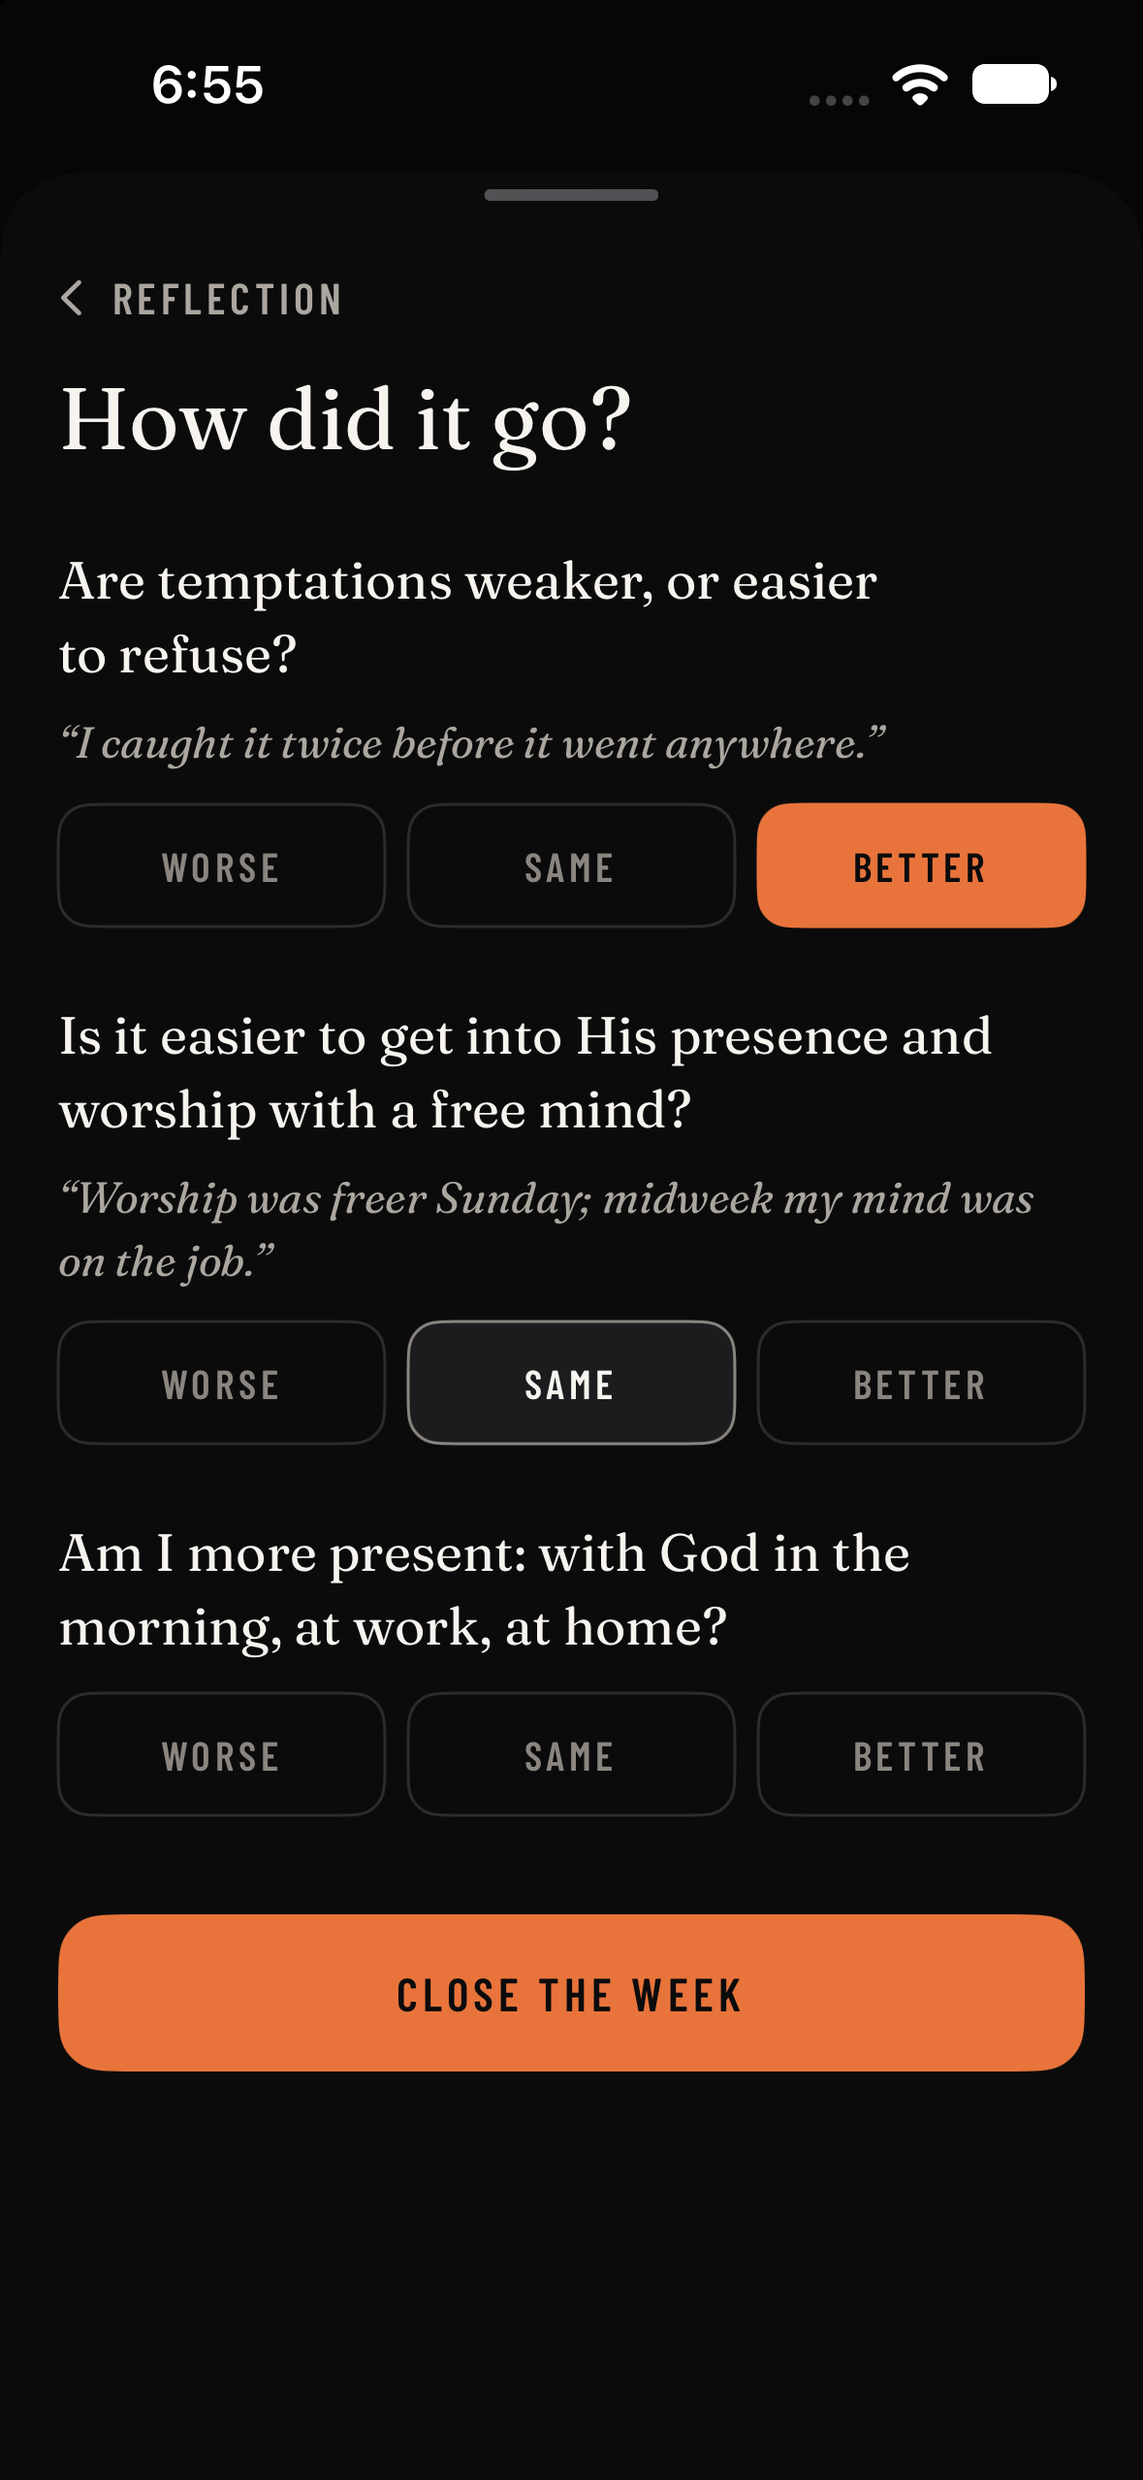
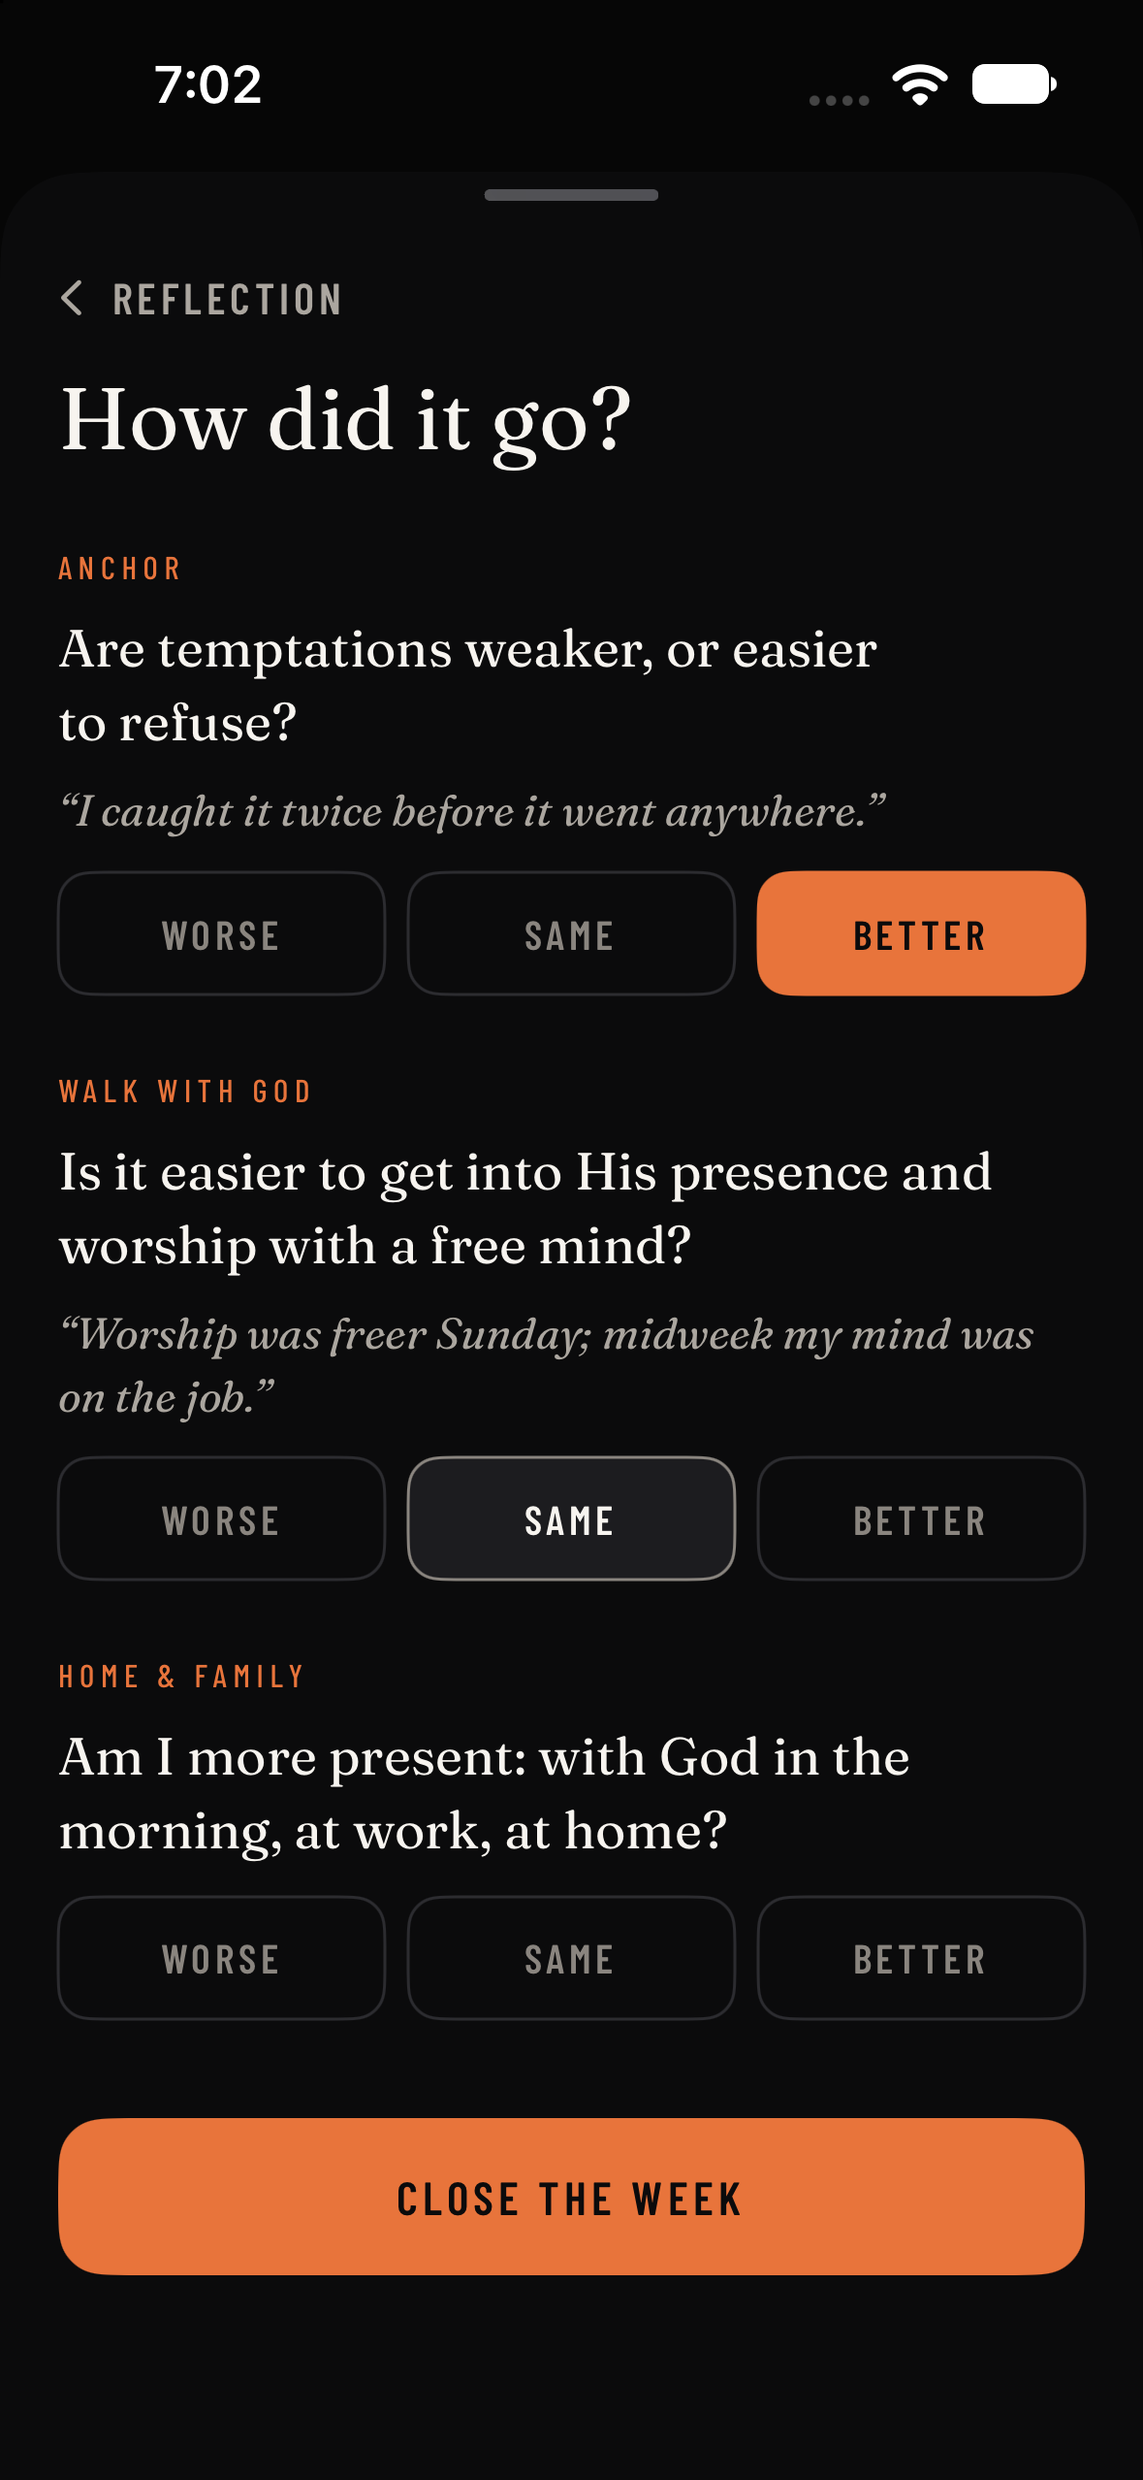
iOS: dictation screen shows small flowing text and elapsed time only; growth is tracked by sphere

Changed region(s): [[0.0305, 0.2164, 0.9771, 0.9272], [0.7328, 0.68, 0.855, 0.7418], [0.1221, 0.0309, 0.2443, 0.0618]]

diff --git a/ios/WeeklyDirection/Growth.swift b/ios/WeeklyDirection/Growth.swift
@@ -1,8 +1,10 @@
 import SwiftUI
 
 /// Growth read from the weekly reviews (Eddie, Nov 10 2026). At each review every Saturday question gets a rating he
-/// confirms: better (1), same (0), worse (-1), or none. Saved on the week as `growth: [{q, v}]`, a field only the
+/// confirms: better (1), same (0), worse (-1), or none. Saved on the week as `growth: [{q, v, s}]`, a field only the
 /// iOS app writes. Weeks closed before this existed have none and stay empty.
+/// The grid is by sphere (`s`: the question's group in the library, "Anchor" for the anchor question), not by exact
+/// question, because the questions change from week to week and the spheres do not.
 enum Growth {
     /// the last three rated weeks against the three before them: 1 improving, -1 slipping, 0 steady; nil until there are four
     static func trend(_ v: [Int]) -> Int? {
@@ -11,18 +13,33 @@ enum Growth {
         return late > early ? 1 : late < early ? -1 : 0
     }
 
-    struct Row: Identifiable { let q: String; let cells: [Int?]; let trend: Int?; var id: String { q } }
+    static let anchorSphere = "Anchor"
+    /// the sphere a question belongs to: "Anchor", its group in the question library, or "Other"
+    static func sphere(_ q: String, _ s: Settings) -> String {
+        if q == s.anchorQ { return anchorSphere }
+        return Logic.libGroups(s).first { $0.qs.contains(q) }?.title ?? "Other"
+    }
 
-    /// one row per question that has ever been rated; cells are the last `n` closed weeks, oldest first
-    static func rows(_ weeks: [Week], anchor: String, last n: Int = 8) -> (weeks: [Week], rows: [Row]) {
+    /// a sphere's rating for one week: the balance of its questions that week (two better and one worse is better)
+    static func value(_ w: Week, _ sphere: String) -> Int? {
+        let v = w.growth.filter { $0.s == sphere }.map(\.v)
+        guard !v.isEmpty else { return nil }
+        let sum = v.reduce(0, +)
+        return sum > 0 ? 1 : sum < 0 ? -1 : 0
+    }
+
+    struct Row: Identifiable { let sphere: String; let cells: [Int?]; let trend: Int?; var id: String { sphere } }
+
+    /// one row per sphere that has ever been rated (Anchor first, then the most recently rated); cells are the last
+    /// `n` closed weeks, oldest first
+    static func rows(_ weeks: [Week], last n: Int = 8) -> (weeks: [Week], rows: [Row]) {
         let closed = weeks.filter { !$0.isActive }.sorted { $0.sealedAtMs < $1.sealedAtMs }
         let shown = Array(closed.suffix(n))
         var latest: [String: Double] = [:]
-        for w in closed { for r in w.growth { latest[r.q] = w.sealedAtMs } }
-        let qs = latest.keys.sorted { a, b in a == anchor ? true : b == anchor ? false : (latest[a]!, a) > (latest[b]!, b) }
-        return (shown, qs.map { q in
-            Row(q: q, cells: shown.map { w in w.growth.first { $0.q == q }?.v },
-                trend: trend(closed.compactMap { w in w.growth.first { $0.q == q }?.v }))
+        for w in closed { for r in w.growth { latest[r.s] = w.sealedAtMs } }
+        let names = latest.keys.sorted { a, b in a == anchorSphere ? true : b == anchorSphere ? false : (latest[a]!, b) > (latest[b]!, a) }
+        return (shown, names.map { s in
+            Row(sphere: s, cells: shown.map { value($0, s) }, trend: trend(closed.compactMap { value($0, s) }))
         })
     }
 }
@@ -50,7 +67,7 @@ struct GrowthGrid: View {
     @EnvironmentObject var store: Store
 
     var body: some View {
-        let g = Growth.rows(store.weeks, anchor: store.settings.anchorQ)
+        let g = Growth.rows(store.weeks)
         // always eight columns, newest on the right: the squares keep their size while the first weeks fill in
         let pad = max(0, 8 - g.weeks.count)
         VStack(alignment: .leading, spacing: 0) {
@@ -58,9 +75,9 @@ struct GrowthGrid: View {
                 Text("Your first rated review will show here.").font(Theme.serifItalic(17)).foregroundStyle(Theme.mu2).padding(.top, 24)
             } else {
                 ForEach(Array(g.rows.enumerated()), id: \.element.id) { n, r in
-                    VStack(alignment: .leading, spacing: 10) {
+                    VStack(alignment: .leading, spacing: 8) {
                         HStack(alignment: .firstTextBaseline) {
-                            Text(r.q).font(Theme.serif(17)).foregroundStyle(Theme.tx).lineLimit(2).multilineTextAlignment(.leading)
+                            Text(r.sphere).caps(16).foregroundStyle(Theme.tx).lineLimit(1)
                             Spacer(minLength: 10)
                             if let t = r.trend {
                                 Text(t > 0 ? "improving" : t < 0 ? "slipping" : "steady").font(Theme.label(13)).tracking(1.4).textCase(.uppercase)
@@ -72,7 +89,7 @@ struct GrowthGrid: View {
                             ForEach(Array(r.cells.enumerated()), id: \.offset) { _, v in GrowthSquare(v: v).frame(maxWidth: .infinity).frame(height: 26) }
                         }
                     }
-                    .padding(.top, 26).rise(n)
+                    .padding(.top, 22).rise(n)
                 }
                 HStack(spacing: 6) {
                     ForEach(0..<pad, id: \.self) { _ in Color.clear.frame(maxWidth: .infinity).frame(height: 1) }

diff --git a/ios/WeeklyDirection/RecordingView.swift b/ios/WeeklyDirection/RecordingView.swift
@@ -1,7 +1,8 @@
 import SwiftUI
 
-/// The recording space (web: vcFocus): Cancel and the timer, the words as you say them, the voice level as a
-/// scrolling bar waveform, and the orb with a stop square. Tap the orb to finish.
+/// The recording space (web: vcFocus). Nov 10 2026 (Eddie: a stream of consciousness, so show a lot of it): the words
+/// in small journal type from the top of the page down, then the voice level, the elapsed time and the orb. Cancel is
+/// the only other thing on screen; tapping the orb finishes.
 struct RecordingView: View {
     @EnvironmentObject var recorder: Recorder
     @EnvironmentObject var router: Router
@@ -10,32 +11,35 @@ struct RecordingView: View {
     @State private var demo: Timer?
     @State private var demoWords = 0
 
-    private static let demoText = "This is a preview of live words. As you talk, what you say shows up here a few words at a time"
+    private static let demoText = "This is a preview of live words. As you talk, what you say shows up here a few words at a time, starting at the top of the page and working its way down. It was a long day on site and I did not get to devotion until after lunch, which I think is the real pattern this week. When the morning goes, the rest of the day runs me instead of the other way around. Tonight I want to be home by six and actually put the phone down at the door"
 
     var body: some View {
         VStack(spacing: 0) {
-            ZStack {
-                HStack {
-                    Button("Cancel") { recorder.cancel(); router.endRecording() }.caps(16).foregroundStyle(Theme.mu)
-                    Spacer()
-                }
-                Text(Fmt.mmss(floor(recorder.elapsed))).font(Theme.label(15)).tracking(1.5).monospacedDigit().foregroundStyle(Theme.mu)
+            HStack {
+                Button("Cancel") { recorder.cancel(); router.endRecording() }.caps(16).foregroundStyle(Theme.mu)
+                Spacer()
             }
             .frame(height: 52)
             ScrollViewReader { proxy in
                 ScrollView {
-                    Text(recorder.liveText).font(Theme.serif(24)).lineSpacing(9).foregroundStyle(Theme.tx)
-                        .fullWidth().padding(.top, 20).id("end")
+                    // top of the page down; once it fills the space the newest line stays in view
+                    Text(recorder.liveText).font(Theme.jserif(17)).lineSpacing(7).foregroundStyle(Theme.tx)
+                        .fullWidth().padding(.top, 8).padding(.bottom, 12)
+                    Color.clear.frame(height: 1).id("end")
                 }
-                .defaultScrollAnchor(.bottom)
-                .onChange(of: recorder.liveText) { _, _ in proxy.scrollTo("end", anchor: .bottom) }
+                .scrollIndicators(.hidden)
+                .onChange(of: recorder.liveText) { _, _ in withAnimation(.easeOut(duration: 0.2)) { proxy.scrollTo("end", anchor: .bottom) } }
+                .mask(LinearGradient(stops: [.init(color: .black, location: 0), .init(color: .black, location: 0.9), .init(color: .clear, location: 1)],
+                                     startPoint: .top, endPoint: .bottom))
             }
-            Wave(levels: recorder.levels).frame(height: 60).padding(.top, 26)
+            Wave(levels: recorder.levels).frame(height: 40).padding(.top, 14)
+            Text(Fmt.mmss(floor(recorder.elapsed))).font(Theme.num(22)).monospacedDigit().foregroundStyle(Theme.tx)
+                .contentTransition(.numericText()).padding(.top, 16)
             Button {
                 if store.isMock { router.endRecording() } else { recorder.stop(); router.endRecording() }
             } label: {
                 ZStack {
-                    Circle().fill(Theme.ac).frame(width: 105, height: 105)
+                    Circle().fill(Theme.ac).frame(width: 88, height: 88)
                     RoundedRectangle(cornerRadius: Theme.r(3)).fill(Theme.onAc).frame(width: 14, height: 14)
                 }
                 .scaleEffect(1 + 0.08 * (recorder.levels.last ?? 0))
@@ -43,10 +47,10 @@ struct RecordingView: View {
             }
             .buttonStyle(.plain)
             .accessibilityLabel("Finish recording")
-            .padding(.top, 38)
+            .padding(.top, 16)
             // the orb grows out of the tab bar mic
-            .scaleEffect(risen ? 1 : 0.57).offset(y: risen ? 0 : 96)
-            Text("Tap to finish").font(Theme.ui(14)).foregroundStyle(Theme.mu2).padding(.top, 16).padding(.bottom, 30)
+            .scaleEffect(risen ? 1 : 0.68).offset(y: risen ? 0 : 60)
+            .padding(.bottom, 34)
         }
         .padding(.horizontal, 24)
         .background(Theme.bg.ignoresSafeArea())

diff --git a/ios/WeeklyDirection/CloseView.swift b/ios/WeeklyDirection/CloseView.swift
@@ -50,6 +50,7 @@ struct CloseSheet: View {
         }
         ForEach(Array(questions.enumerated()), id: \.offset) { i, q in
             VStack(alignment: .leading, spacing: 10) {
+                Eyebrow(text: Growth.sphere(q, store.settings), color: Theme.ac, size: 11)
                 Text(q).font(Theme.serif(18)).lineSpacing(3).foregroundStyle(Theme.tx)
                 if i < quotes.count, !quotes[i].isEmpty {
                     Text("“\(quotes[i])”").font(Theme.serifItalic(15)).lineSpacing(3).foregroundStyle(Theme.mu)
@@ -179,7 +180,7 @@ struct CloseSheet: View {
         let st = Logic.weekStats(cur, store.settings), text = joined()
         var fields: [String: Any] = ["status": "closed", "closedAt": Now.ms, "percentage": st.pct, "reflection": text]
         // only the questions he rated; a week with none gets no `growth` field at all
-        let rated = zip(questions, ratings).compactMap { q, v in v.map { ["q": q, "v": $0] as [String: Any] } }
+        let rated = zip(questions, ratings).compactMap { q, v in v.map { ["q": q, "v": $0, "s": Growth.sphere(q, store.settings)] as [String: Any] } }
         if !rated.isEmpty { fields["growth"] = rated }
         store.patchWeek(cur, fields)
         Haptic.success()

diff --git a/ios/WeeklyDirectionTests/RulesTests.swift b/ios/WeeklyDirectionTests/RulesTests.swift
@@ -110,12 +110,15 @@ final class RulesTests: XCTestCase {
         XCTAssertEqual(Growth.trend([-1, -1, 0, 1, 1, 1]), 1)
         XCTAssertEqual(Growth.trend([1, 1, 1, 0, -1, -1]), -1)
         XCTAssertEqual(Growth.trend([0, 1, 0, 0, 1, 0]), 0)
-        let g = Growth.rows(store.weeks, anchor: store.settings.anchorQ)
+        let g = Growth.rows(store.weeks)
         XCTAssertEqual(g.weeks.map(\.focus), ["Rest", "Word", "Law"])
-        XCTAssertEqual(g.rows.first?.q, store.settings.anchorQ)
+        // by sphere, the anchor first
+        XCTAssertEqual(g.rows.first?.sphere, Growth.anchorSphere)
         XCTAssertEqual(g.rows.first?.cells, [-1, 0, 1])
-        // the third question was not spoken to in the Word week: empty, not "same"
-        XCTAssertEqual(g.rows.first { $0.q == Defaults.revQs[2] }?.cells, [-1, nil, 0])
+        // a sphere not spoken to in a week is empty there, not "same"
+        let third = Growth.sphere(Defaults.revQs[2], store.settings)
+        XCTAssertEqual(Growth.sphere(Defaults.revQs[0], store.settings), Growth.anchorSphere)
+        XCTAssertNotNil(g.rows.first { $0.sphere == third })
     }
 
     func testJournalBlocksAndEdits() {

diff --git a/ios/WeeklyDirection/Models.swift b/ios/WeeklyDirection/Models.swift
@@ -67,7 +67,8 @@ struct Week: Identifiable, Equatable {
     let summary: String?
     /// ratings confirmed at the review: one per Saturday question he spoke to (iOS only; older weeks have none)
     let growth: [Rating]
-    struct Rating: Equatable { let q: String; let v: Int }
+    /// `s` is the sphere the question belonged to when it was rated (its group in the question library)
+    struct Rating: Equatable { let q: String; let v: Int; let s: String }
     let raw: [String: Any]
 
     var isActive: Bool { status == "active" }
@@ -99,7 +100,7 @@ struct Week: Identifiable, Equatable {
         summary = strOf(d["summary"])
         growth = (d["growth"] as? [[String: Any]] ?? []).compactMap { r in
             guard let q = r["q"] as? String, let v = intOf(r["v"]), (-1...1).contains(v) else { return nil }
-            return Rating(q: q, v: v)
+            return Rating(q: q, v: v, s: strOf(r["s"]) ?? q)
         }
         raw = d
     }

diff --git a/ios/WeeklyDirection/Dictate.swift b/ios/WeeklyDirection/Dictate.swift
@@ -45,7 +45,7 @@ struct DictateCard: View {
                         .caps(14).foregroundStyle(Theme.mu).buttonStyle(.plain)
                 }
                 Text(recorder.liveText.isEmpty ? "Listening…" : recorder.liveText)
-                    .font(Theme.jitalic(16)).lineSpacing(4).foregroundStyle(Theme.mu).lineLimit(4, reservesSpace: false)
+                    .font(Theme.jserif(15)).lineSpacing(4).foregroundStyle(Theme.mu).lineLimit(10, reservesSpace: false)
                     .frame(maxWidth: .infinity, alignment: .leading)
                 Button { Task { await finish() } } label: {
                     Text("Done").caps(16).foregroundStyle(Theme.onAc).frame(maxWidth: .infinity).frame(height: 46)

diff --git a/ios/WeeklyDirection/Mock.swift b/ios/WeeklyDirection/Mock.swift
@@ -55,7 +55,7 @@ enum Mock {
             var w: [String: Any] = ["id": id, "status": "closed", "focus": focus, "sealedAt": ms(id, "17:30"),
                                     "closedAt": ms(id, "17:30") + 7 * 864e5, "percentage": pct, "commitments": habits, "reflection": refl]
             if let summary { w["summary"] = summary }
-            let rated = zip(Defaults.revQs, growth).compactMap { q, v in v.map { ["q": q, "v": $0] as [String: Any] } }
+            let rated = zip(Defaults.revQs, growth).compactMap { q, v in v.map { ["q": q, "v": $0, "s": Growth.sphere(q, Settings()) ] as [String: Any] } }
             if !rated.isEmpty { w["growth"] = rated }
             return w
         }

diff --git a/ios/docs/PROGRESS.md b/ios/docs/PROGRESS.md
@@ -6,6 +6,11 @@
 - A prayer that is only its name opens as a half sheet with "Add to this prayer"; Edit or that line lifts it to the full page. A prayer with text, the life prayer and New still open full height. The list stays plain rows (a text preview line was tried and removed the same day: Eddie wants the list simple).
 - Layout only: no change to what is saved. Verified: simulator shots `prayer`, `prayer-short`. Not verified: on the phone; the lift to full height when Edit is tapped.
 
+## Dictation screen and growth by sphere (Nov 10, late)
+- Recording screen: live words in Georgia 17 from the top of the page down (auto-scrolls once full), wave, elapsed time as the one number, smaller orb. "Tap to finish" and the header timer are gone. The dictation card in plan / review shows up to 10 lines.
+- Growth is by sphere, not by exact question (questions change week to week): each rating is saved with `s`, the question's group in the library ("Anchor" for the anchor question, "Other" if it is in no group). A sphere's week is the balance of its questions. The rating step shows the sphere above each question.
+- Verified: 14 tests, shots `recording`, `progress-growth`, `close-rate`. Not verified: live words scrolling on a real recording, on the phone.
+
 ## Growth from reflections (Nov 10)
 - Eddie picked option A (one colour; green / red rejected because red and orange both read as alerts) and past weeks stay empty.
 - Review is two steps: reflect, then "How did it go?" with Worse / Same / Better per question. The `tidy` function (mode `rate`) proposes each rating with the sentence it rests on; he confirms or changes it; tap again clears it. Without the function the buttons start empty and work by hand.
